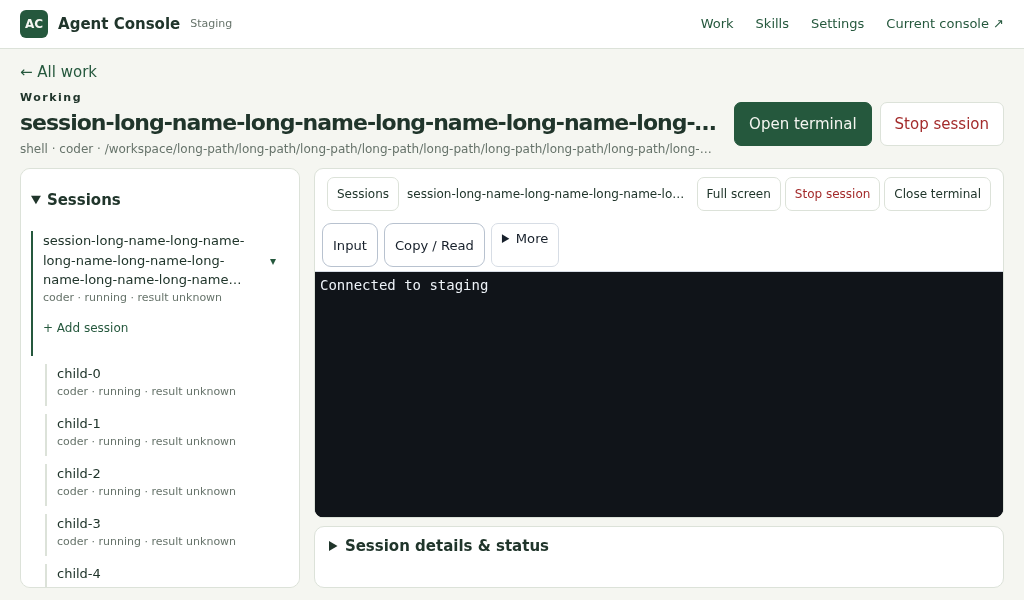
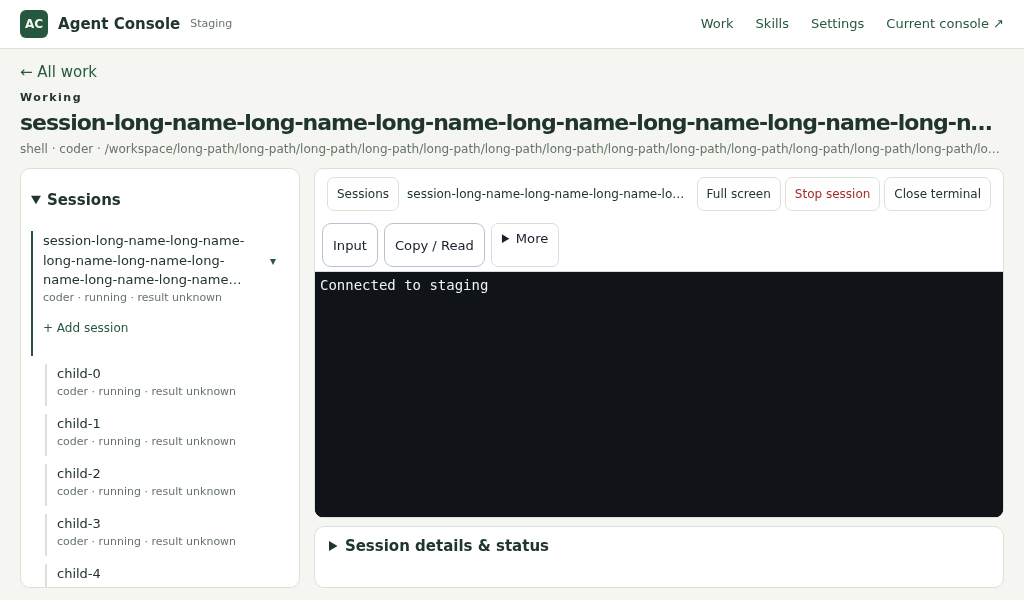
fix: consolidate terminal lifecycle controls (#90)

Changed region(s): [[0.6875, 0.15, 0.9688, 0.27]]

diff --git a/web/static/workbench.html b/web/static/workbench.html
@@ -7,7 +7,7 @@
 <main id="main" tabindex="-1">
 <div id="notice" role="status" aria-live="polite" hidden></div>
 <section id="work-view"><div class="heading"><div><p class="eyebrow">YOUR WORKSPACE</p><h1>Work in progress</h1><p class="muted">Start with one session. Add help when it earns its place.</p></div><div class="session-actions"><button id="run-recipe">Recipes</button><button class="primary" id="new-session">New session</button></div></div><div class="filter-row"><label class="search">Find work<input id="search" type="search" placeholder="Session, task or repository"></label><label>Show<select id="state-filter"><option value="active">Active &amp; recent</option><option value="all">All work</option><option value="attention">Needs attention</option></select></label><button id="refresh">Refresh</button></div><div id="attention-strip" class="attention-strip" hidden></div><details class="work-filters"><summary>More filters</summary><div class="filter-grid"><label>Project<select id="filter-project"><option value="">Any</option></select></label><label>Role<select id="filter-profile"><option value="">Any</option></select></label><label>Harness<select id="filter-tool"><option value="">Any</option></select></label><label>Terminal state<select id="filter-mechanical"><option value="">Any</option><option value="running">Running</option><option value="stopped">Stopped</option><option value="ended">Ended</option></select></label><label>Attention<select id="filter-attention"><option value="">Any</option><option value="normal">None</option><option value="needs_input">Needs input</option><option value="blocked">Blocked</option><option value="ready_for_review">Needs review</option></select></label><label>Result<select id="filter-result"><option value="">Any</option><option value="in-progress">In progress</option><option value="completed">Completed</option><option value="failed">Failed</option><option value="blocked">Blocked</option><option value="cancelled">Cancelled</option><option value="unknown">Unknown</option></select></label><label>Show sessions<select id="filter-scope"><option value="">Root work with children</option><option value="all">Every session</option></select></label><button id="reset-filters" type="button">Reset filters</button></div></details><div id="work-list"></div></section>
-<section id="session-view" hidden><a href="#work" class="back">← All work</a><div class="heading"><div><p id="session-state" class="eyebrow"></p><h1 id="session-title"></h1><p id="session-meta" class="muted"></p></div><div class="session-actions"><button id="open-terminal" class="primary">Open terminal</button><button id="stop-session" class="danger">Stop session</button></div></div><div class="workspace"><details id="tree-panel" class="tree-panel" open><summary>Sessions</summary><div id="tree-home"><div id="session-tree"></div></div></details><div class="session-main"><div id="terminal-panel" class="terminal-panel" hidden><header><button id="terminal-sessions">Sessions</button><span id="terminal-status" role="status">Terminal</span><div><button id="expand-terminal">Full screen</button><button id="stop-terminal-session" class="danger">Stop session</button><button id="close-terminal" title="Disconnect this view; the session keeps running">Close terminal</button></div></header><div id="terminal-frames"></div></div><details id="session-detail" class="panel" open><summary>Session details &amp; status</summary><div id="session-statuses"></div><p id="session-brief"></p><div class="actions"><button id="show-output">Read output</button><button id="show-skills">Skills</button><button id="show-history">History</button><button id="show-configuration">Configuration</button><button id="continue-session" hidden>Continue work</button><button id="interrupt-session">Interrupt</button><button id="show-results">Results &amp; handoffs</button></div><details id="attention-controls"><summary>Update attention status</summary><form id="attention-form"><label>Status<select name="state"><option value="normal">No attention needed</option><option value="needs_input">Needs input</option><option value="blocked">Blocked</option><option value="ready_for_review">Ready for review</option></select></label><label>Note<textarea name="note" rows="2" maxlength="1000"></textarea></label><button type="submit">Update status</button></form></details><div id="session-output" hidden><h3>Recent output</h3><pre id="output-text"></pre></div><div id="session-skills" hidden></div><div id="session-history" hidden></div><div id="session-configuration" hidden></div></details></div></div></section>
+<section id="session-view" hidden><a href="#work" class="back">← All work</a><div class="heading"><div><p id="session-state" class="eyebrow"></p><h1 id="session-title"></h1><p id="session-meta" class="muted"></p></div><div class="session-actions"><button id="open-terminal" class="primary">Open terminal</button><button id="stop-session" class="danger">Stop session</button></div></div><div class="workspace"><details id="tree-panel" class="tree-panel" open><summary>Sessions</summary><div id="tree-home"><div id="session-tree"></div></div></details><div class="session-main"><div id="terminal-panel" class="terminal-panel" hidden><header><button id="terminal-sessions" aria-describedby="terminal-status">Sessions</button><span id="terminal-status" role="status">Terminal</span><div><button id="expand-terminal">Full screen</button><button id="stop-terminal-session" class="danger">Stop session</button><button id="close-terminal" title="Disconnect this view; the session keeps running">Close terminal</button></div></header><div id="terminal-frames"></div></div><details id="session-detail" class="panel" open><summary>Session details &amp; status</summary><div id="session-statuses"></div><p id="session-brief"></p><div class="actions"><button id="show-output">Read output</button><button id="show-skills">Skills</button><button id="show-history">History</button><button id="show-configuration">Configuration</button><button id="continue-session" hidden>Continue work</button><button id="interrupt-session">Interrupt</button><button id="show-results">Results &amp; handoffs</button></div><details id="attention-controls"><summary>Update attention status</summary><form id="attention-form"><label>Status<select name="state"><option value="normal">No attention needed</option><option value="needs_input">Needs input</option><option value="blocked">Blocked</option><option value="ready_for_review">Ready for review</option></select></label><label>Note<textarea name="note" rows="2" maxlength="1000"></textarea></label><button type="submit">Update status</button></form></details><div id="session-output" hidden><h3>Recent output</h3><pre id="output-text"></pre></div><div id="session-skills" hidden></div><div id="session-history" hidden></div><div id="session-configuration" hidden></div></details></div></div></section>
 <section id="results-view" hidden><a id="results-back" class="back">← Back to session</a><div class="heading"><div><p id="results-session" class="eyebrow"></p><h1 tabindex="-1">Results &amp; handoffs</h1></div></div><div id="session-results"></div></section>
 <section id="skills-view" hidden><div class="heading"><div><p class="eyebrow">WORKSPACE</p><h1>Skills</h1><p class="muted">Inspect, assign and approve the instructions your sessions receive.</p></div></div><div id="skills-content" aria-live="polite"></div></section>
 <section id="settings-view" hidden><div class="heading"><div><p class="eyebrow">WORKSPACE</p><h1>Settings</h1><p class="muted">Set up tools and skills without cluttering your work.</p></div></div><div class="panel"><label>Theme<select id="theme"><option value="system">System</option><option value="light">Light</option><option value="dark">Dark</option></select></label><h2>Versions</h2><p>Staging has its own sessions, files and settings. Switching versions does not move or stop sessions.</p><a id="settings-current" hidden>Open current console ↗</a><p id="session-capacity" class="muted small"></p><details class="settings-section"><summary id="readiness-summary">System readiness</summary><div id="readiness-details"></div></details><details class="settings-section"><summary>Tools &amp; accounts</summary><div id="tools"></div></details><h2>Skills</h2><a class="button" href="#skills">Manage skills</a><details class="settings-section"><summary>More controls</summary><p>Projects, profiles, skill assignments, plans and diagnostics remain available in the full control panel for this staging instance.</p><a class="button" href="/desktop">Open full control panel</a></details></div></section>

diff --git a/web/static/workbench.js b/web/static/workbench.js
@@ -126,13 +126,23 @@ function openTerminal() {
     state.frames.set(s.tmux_name, frame); $('#terminal-frames').append(frame);
   }
   state.frames.forEach(f => { f.hidden = f !== frame; }); $('#terminal-panel').hidden = false;
-  $('#terminal-status').textContent = `${s.tmux_name} · ${frame.dataset.status || 'Connecting…'}`;
-  $('#terminal-status').title = s.tmux_name;
+  setTerminalStatus(`${s.tmux_name} · ${frame.dataset.status || 'Connecting…'}`);
   syncTerminalVisibility();
+}
+function setTerminalStatus(text) {
+  $('#terminal-status').textContent = text;
+  $('#terminal-status').title = text;
+  // The outer status line is visually hidden on phones, so expose the same text on the
+  // Sessions control to keep the selected session and connection inspectable.
+  $('#terminal-sessions').title = text;
 }
 function syncTerminalVisibility() {
   const visible = !$('#session-view').hidden && !$('#terminal-panel').hidden;
   state.frames.forEach(frame => frame.contentWindow?.postMessage({type:'agent-console:terminal-visibility', visible:visible && !frame.hidden}, location.origin));
+  // Single source of truth for lifecycle actions: while the terminal is open its header
+  // owns them, so the session heading must not show duplicate Open/Stop controls.
+  const headingActions = $('#session-view > .heading > .session-actions');
+  if (headingActions) headingActions.hidden = visible;
   const desktopSession = visible && !matchMedia('(max-width:760px)').matches;
   const enteringSession = desktopSession && !document.body.classList.contains('session-terminal');
   document.body.classList.toggle('session-terminal', desktopSession);
@@ -339,6 +349,6 @@ window.addEventListener('message', event => {
   if (event.origin !== location.origin || event.data?.type !== 'agent-console:terminal-status' || typeof event.data.status !== 'string') return;
   for (const [name, frame] of state.frames) if (event.source === frame.contentWindow) {
     frame.dataset.status = event.data.status;
-    if (name === state.selected?.tmux_name) $('#terminal-status').textContent = `${name} · ${event.data.status}`;
+    if (name === state.selected?.tmux_name) setTerminalStatus(`${name} · ${event.data.status}`);
   }
 });

diff --git a/web/static/workbench.css b/web/static/workbench.css
@@ -59,7 +59,8 @@ body.terminal-open{overflow:hidden}
 #session-view>.back{margin-bottom:12px}
 #session-title{font-size:26px}
 .terminal-panel>header>div{display:flex;gap:4px}
-@media(max-width:760px){.tree-panel{max-height:45dvh}.workspace.tree-collapsed{display:flex}.terminal-panel>header{flex-wrap:wrap}.terminal-panel>header #terminal-status{flex:1}.terminal-panel>header>div{margin-left:auto}.node>.add-session{display:block}}
+/* One compact outer row on phones. The status stays in the accessibility tree (sr-only) because the embedded terminal hides its own connection line. */
+@media(max-width:760px){.tree-panel{max-height:45dvh}.workspace.tree-collapsed{display:flex}.terminal-panel>header{flex-wrap:nowrap}.terminal-panel>header #terminal-status{position:absolute;width:1px;height:1px;padding:0;margin:-1px;overflow:hidden;clip-path:inset(50%);white-space:nowrap;border:0}.terminal-panel>header>div{margin-left:auto;flex-wrap:nowrap}.node>.add-session{display:block}}
 
 /* An open desktop session fills the available window; only its panes scroll. */
 @media(min-width:761px){

diff --git a/web/static/index.html b/web/static/index.html
@@ -13,7 +13,7 @@
 <body class="app-page">
   <div class="app-shell">
     <aside class="sidebar" aria-label="Primary navigation">
-      <div class="brand"><span class="brand-mark">AC</span><span class="nav-label"><strong>Agent Console</strong><small>v0.23.1</small></span></div>
+      <div class="brand"><span class="brand-mark">AC</span><span class="nav-label"><strong>Agent Console</strong><small>v0.23.2</small></span></div>
       <nav class="nav-list">
         <button class="nav-button" data-view="sessions"><span aria-hidden="true">●</span><span class="nav-label">Sessions</span></button>
         <button class="nav-button" data-view="projects"><span aria-hidden="true">▣</span><span class="nav-label">Projects</span></button>

diff --git a/agent_console/__init__.py b/agent_console/__init__.py
@@ -1,3 +1,3 @@
 """N100 Agent Console session-management core."""
 
-__version__ = "0.23.1"
+__version__ = "0.23.2"

diff --git a/review-evidence/README.md b/review-evidence/README.md
@@ -9,7 +9,7 @@ Reviewed the parent session `agent-console-ui-revamp-1001` and its latest clean 
 | High | Fixed 540px desktop terminal sits below large page padding and wrapping headings. At 1024×600 with a long name/path and 25 children, its bottom was 892.25px; a substantial portion required page scrolling. | Corrected: active desktop sessions fill the remaining viewport; names/paths truncate with full-text titles; tree/details scroll independently. |
 | Medium | Heading action container can let buttons extend off the right edge beside long text. | Corrected: fixed action group and shrinking text column; explicit button-bound regression. |
 | Medium | Full screen appears both in the workbench and inside its iframe's More menu. | Corrected: embedded view hides the duplicate; containing view owns expansion. Standalone terminal retains its control. |
-| Medium | Open terminal is visible even while open, and Stop is duplicated in the heading and terminal toolbar. Parent view actions and native input actions occupy two toolbar rows. | Remaining simplification opportunity. Preserve discoverable Stop/Close and phone navigation when consolidating. |
+| Medium | Open terminal is visible even while open, and Stop is duplicated in the heading and terminal toolbar. Parent view actions and native input actions occupy two toolbar rows. | Corrected in 0.23.2: while the terminal is visible the session heading hides Open/Stop so the terminal header is the single lifecycle location, and the heading set is restored on close. Phone outer headers keep one compact row (Sessions + Stop + Close) with 44px targets; the outer status stays in the accessibility tree and describes the Sessions control. |
 | Low | Session details contain many action buttons once expanded. | Remains behind the existing collapsed disclosure. A tabbed/details drawer would be a separate UI change. |
 
 ## Verification
@@ -17,7 +17,8 @@ Reviewed the parent session `agent-console-ui-revamp-1001` and its latest clean 
 - Added regressions first; both failed on unchanged source (terminal bottom 892.25px and visible embedded Full screen).
 - Full affected Workbench suite: 76 passed, 2 skipped (desktop-only viewport case on phone projects), Chromium at desktop/360px/390px.
 - Final heading adjustment checked with focused desktop scenarios: short windows, button bounds, details, scrolling, close/reopen, expand/restore, navigation, pending status and tree drafts.
-- Version checks: 3 passed. Corrected pre-existing UI badge mismatch as part of the patch version increment to 0.23.1.
+- Version checks: 3 passed. Corrected pre-existing UI badge mismatch as part of the patch version increment; 0.23.2 continues the patch line for the terminal lifecycle consolidation.
+- Consolidated-lifecycle regressions cover duplicate lifecycle actions, close/reopen/switch/stopped sessions, close-then-refresh persistence, stale refresh after Stop, phone row/44px bounds under resized/orientation viewports and a 200% zoom-equivalent desktop viewport. Full affected Workbench suite: 82 passed, 5 skipped (phone-only assertions skipped on desktop and vice versa), Chromium at desktop/360px/390px.
 - Screenshot evidence: [before](short-window-before.png), [after](short-window-after.png).
 
 Browser tests use mocked API/WebSocket fixtures and the real frontend/xterm components. No live deployment or physical phone keyboard/trackpad validation was performed. A single consolidated toolbar and broader interaction redesign remain future work; this patch does not certify the whole Console as issue-free.

diff --git a/docs/RELEASE_NOTES.md b/docs/RELEASE_NOTES.md
@@ -1,3 +1,10 @@
+## 0.23.2 — unreleased, 2026-10-02 (#90)
+
+- Impact: an open terminal now shows one set of lifecycle actions. The session heading hides Open terminal and Stop session while the terminal is visible and restores them when it closes; the terminal header remains the single Stop/Close location. Phone outer headers use a single compact row (Sessions + Stop + Close) with 44px targets, the connection status stays available as screen-reader-only text and on the Sessions control, and Full screen stays desktop-only. A closed terminal stays closed across background refreshes.
+- Configuration/migration: none. Browser-only change; refresh the page after release. No backend, schema, PTY or session behavior changes.
+- Verification: Workbench browser tests on desktop, 360px and 390px cover duplicate lifecycle actions, close/reopen/switch/stopped sessions, close-then-refresh persistence, stale refresh after Stop, control bounds/44px targets, phone resized-height/orientation viewports, a 200% zoom-equivalent viewport, and the existing viewport/scroll regressions.
+- Rollback: select 0.23.1, retaining all state. No session or configuration migration.
+
 ## 0.23.1 — unreleased, 2026-10-02 (#90)
 
 - Impact: open desktop sessions fit short windows; long names and repository paths no longer push the terminal below the screen. Tree and details scroll within their panes. Embedded terminals use the outer Full screen control, removing the duplicate iframe action.

diff --git a/docs/DEVELOPMENT_ROADMAP.md b/docs/DEVELOPMENT_ROADMAP.md
@@ -1,3 +1,9 @@
+## Consolidated terminal lifecycle controls — 2026-10-02 (#90)
+
+- While an open terminal is visible, the session heading hides its Open terminal and Stop session actions so the terminal header is the single lifecycle location; the heading actions are restored when the terminal closes. Visibility is computed centrally in `syncTerminalVisibility()` so refreshes cannot re-show a duplicate Stop.
+- Phone outer headers stay one compact row (Sessions + Stop + Close) with 44px targets; the outer connection status is kept as screen-reader-only text and mirrored onto the Sessions control, because the embedded terminal hides its own connection line. Full screen remains desktop-only.
+- Remaining: physical mobile keyboard/orientation verification.
+
 ## Session viewport correction — 2026-10-02 (#90)
 
 - Open desktop sessions allocate remaining viewport space to the terminal instead of a fixed 540px panel. Long heading text stays on one line with full-text titles; tree and details have independent scrolling.
